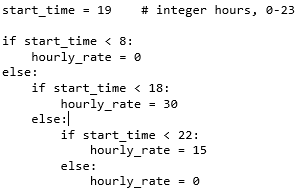
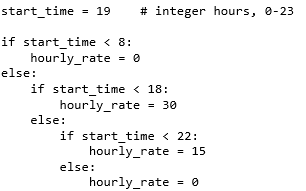
updated errata

diff --git a/errata.md b/errata.md
@@ -18,7 +18,9 @@ yet? Please email [frode.nasje@gmail.com](mailto:frode.nasje@gmail.com).
 
 | Section | Page | Severity | Reads | Should read |
 |:-------:|:----:|:--------:|-------|-------------|
+| 2.1 | 33 | <span class="sev sev-low">Minor</span> | `DateTime` | `datetime` |
 | 2.5.1 | 40 | <span class="sev sev-med">Moderate</span> | Figure: `a` points to the value 20. | Figure should show the state *before* `a` is reassigned - `a` points to 10. Correct figure below.<br>[![Correct figure for section 2.5.1](images/immutable-int-before.png)](images/immutable-int-before.png) |
 | 4.4 | 98 | <span class="sev sev-low">Minor</span> | "...it could of course have been any current." | "...it could of course have been any currency." |
 | 4.4.3 | 105 | <span class="sev sev-high">Serious</span> | Wrong indentation in the code example. | Correct indentation in figure below.<br>[![Correct indentation](images/correct-indentation.png)](images/correct-indentation.png) |
+| 4.8 | 111 | <span class="sev sev-med">Moderate</span> | `match_day` | `match day` |
 {:.errata-table}
